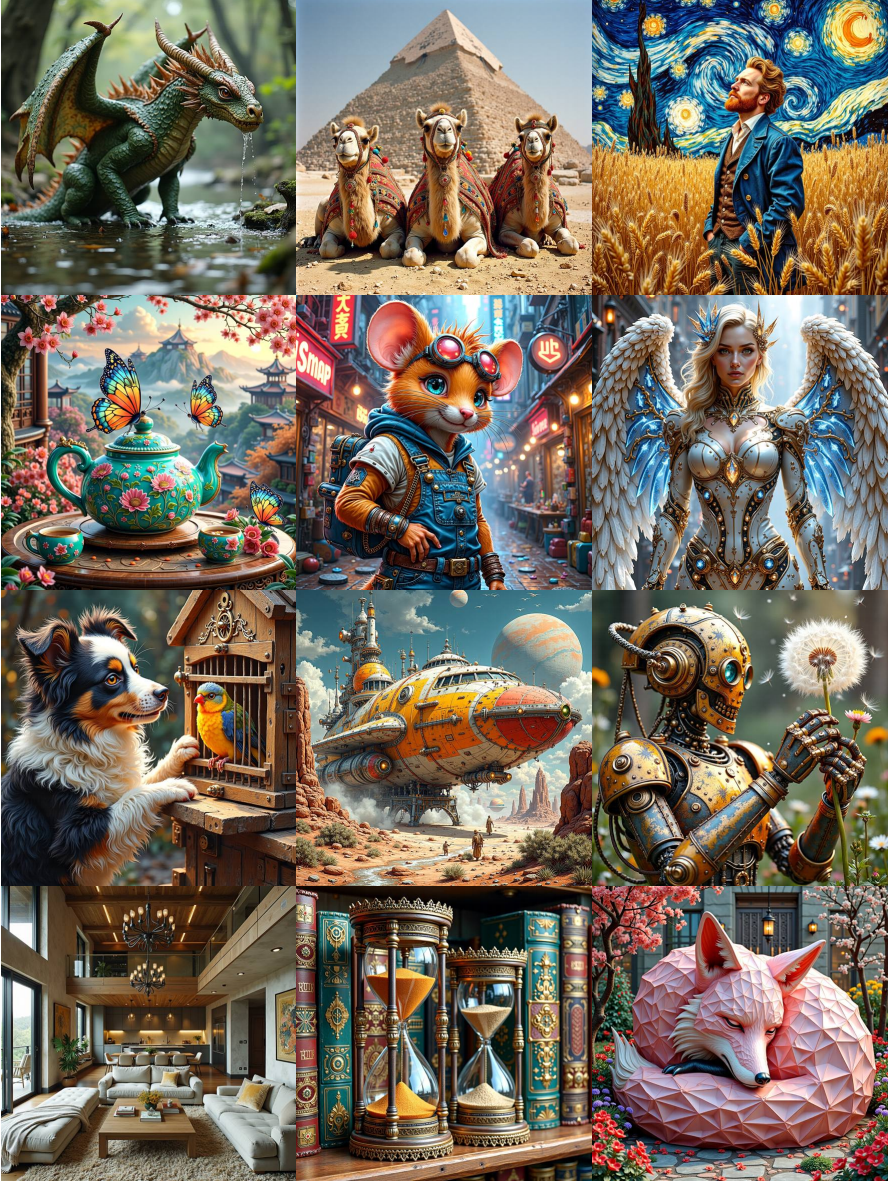
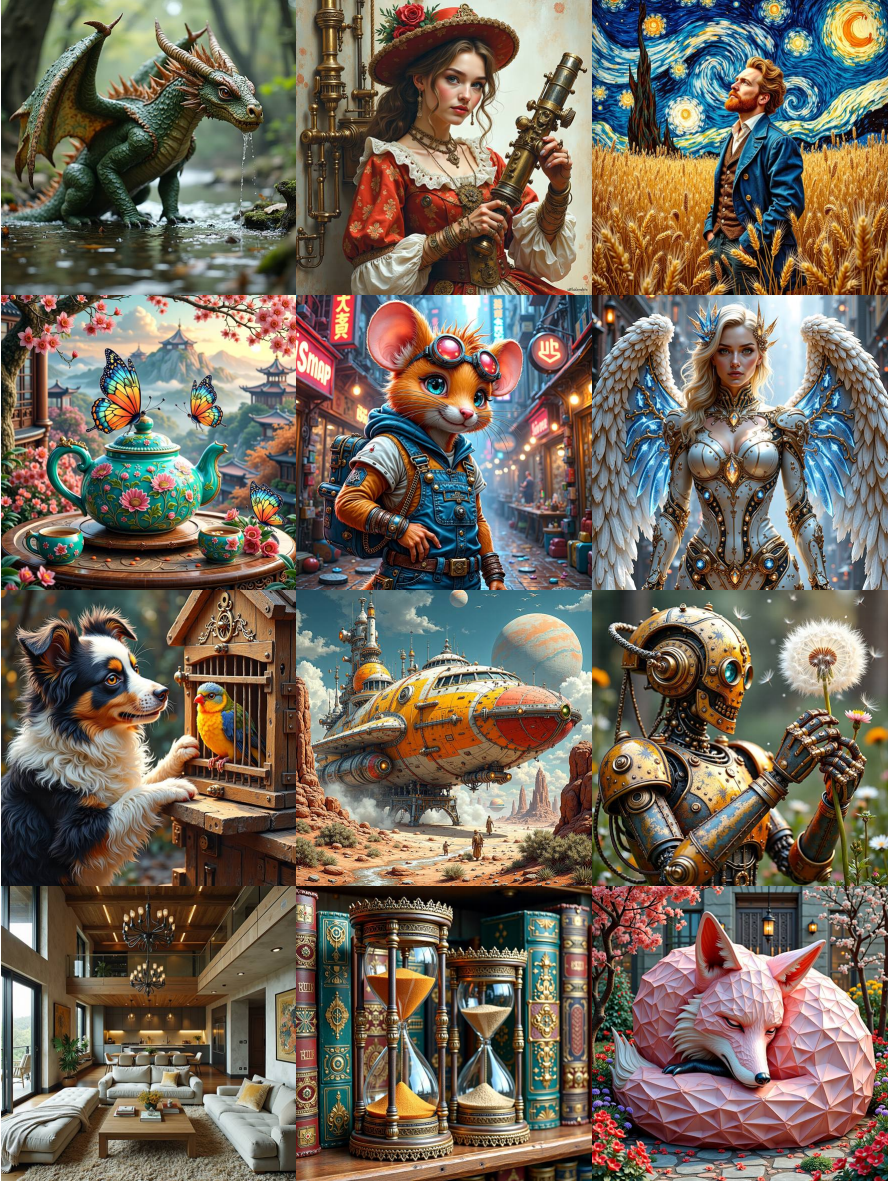
update gallery 2

Changed region(s): [[0.3345, 0.0, 0.6689, 0.2743]]

diff --git a/index.html b/index.html
@@ -65,8 +65,8 @@
     </span></p>
     <font size="+2">
       <p style="text-align: center;">
-        <a href="https://bujiazi.github.io/" target="_blank"><b>[Paper (Coming Soon)]</b></a> &nbsp;&nbsp;&nbsp;&nbsp;
-        <a href="https://bujiazi.github.io/" target="_blank"><b>[Code (Coming Soon)]</b></a>
+        <a href="https://bujiazi.github.io/adagrpo.github.io/" target="_blank"><b>[Paper (Coming Soon)]</b></a> &nbsp;&nbsp;&nbsp;&nbsp;
+        <a href="https://bujiazi.github.io/adagrpo.github.io/" target="_blank"><b>[Code (Coming Soon)]</b></a>
       </p>
     </font>
     <br>